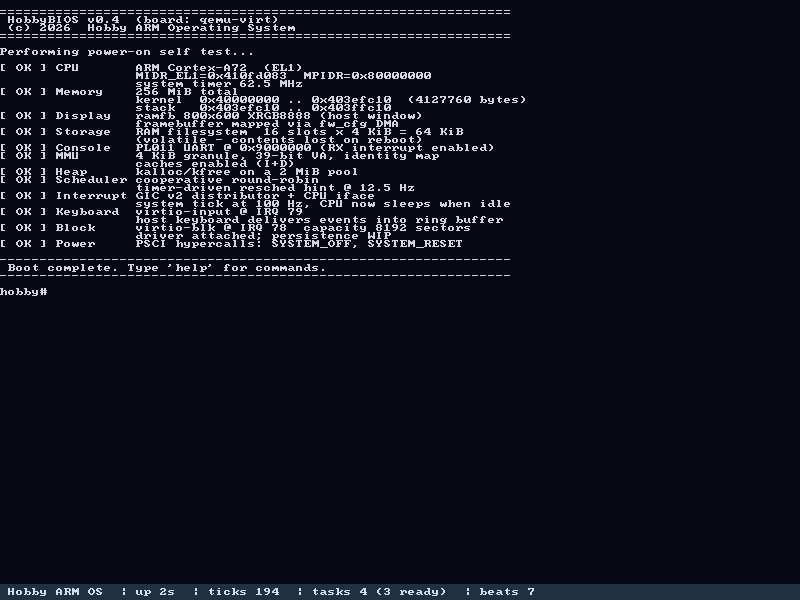
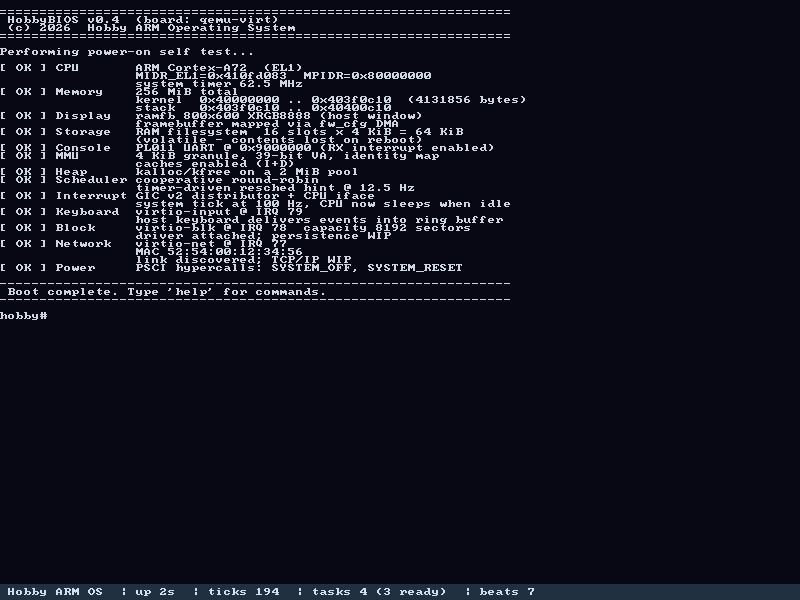
F: virtio-net device discovery + MAC
The kernel now finds the QEMU virtio-net device on the virtio-mmio
bus, walks the standard handshake with VIRTIO_NET_F_MAC negotiated,
and reads the MAC address from the config space. POST now lists the
network device and a new 'ifconfig' shell command prints the link
info.

QEMU command line ships with -netdev user + -device virtio-net-device
so the device shows up out of the box. Frame I/O and a TCP/IP stack
are scheduled for a follow-up; for now this is the link layer that a
real stack will sit on top of.

diff --git a/src/virtio_net.c b/src/virtio_net.c
@@ -1,0 +1,60 @@
+#include <stdint.h>
+#include "virtio.h"
+#include "virtio_net.h"
+#include "gic.h"
+
+#define VIRTIO_DEVICE_NET 1
+
+#define MMIO_DEVICE_FEATURES_SEL 0x014
+#define MMIO_DRIVER_FEATURES     0x020
+#define MMIO_DRIVER_FEATURES_SEL 0x024
+#define MMIO_QUEUE_SEL           0x030
+#define MMIO_QUEUE_NUM_MAX       0x034
+#define MMIO_QUEUE_NUM           0x038
+#define MMIO_QUEUE_READY         0x044
+#define MMIO_STATUS              0x070
+#define MMIO_CONFIG              0x100
+
+#define STATUS_ACKNOWLEDGE 0x01
+#define STATUS_DRIVER      0x02
+#define STATUS_DRIVER_OK   0x04
+#define STATUS_FEATURES_OK 0x08
+
+#define VIRTIO_NET_F_MAC (1u << 5)
+
+static struct virtio_mmio_dev dev;
+static int  initialized;
+static uint8_t mac_addr[6];
+
+int vnet_present(void)    { return initialized; }
+int vnet_irq_number(void) { return initialized ? (int)dev.irq : -1; }
+const uint8_t *vnet_mac(void) { return mac_addr; }
+
+int vnet_init(void) {
+    if (virtio_mmio_find(VIRTIO_DEVICE_NET, &dev) != 0) {
+        return -1;
+    }
+
+    vio_write32(&dev, MMIO_STATUS, 0);
+    vio_write32(&dev, MMIO_STATUS, STATUS_ACKNOWLEDGE);
+    vio_write32(&dev, MMIO_STATUS, STATUS_ACKNOWLEDGE | STATUS_DRIVER);
+
+    vio_write32(&dev, MMIO_DEVICE_FEATURES_SEL, 0);
+    vio_write32(&dev, MMIO_DRIVER_FEATURES_SEL, 0);
+    vio_write32(&dev, MMIO_DRIVER_FEATURES, VIRTIO_NET_F_MAC);
+    vio_write32(&dev, MMIO_DEVICE_FEATURES_SEL, 1);
+    vio_write32(&dev, MMIO_DRIVER_FEATURES_SEL, 1);
+    vio_write32(&dev, MMIO_DRIVER_FEATURES, 1); /* VIRTIO_F_VERSION_1 */
+
+    vio_write32(&dev, MMIO_STATUS,
+                STATUS_ACKNOWLEDGE | STATUS_DRIVER | STATUS_FEATURES_OK);
+    if (!(vio_read32(&dev, MMIO_STATUS) & STATUS_FEATURES_OK)) return -2;
+
+    /* MAC is the first 6 bytes of config space when VIRTIO_NET_F_MAC is set */
+    for (int i = 0; i < 6; i++) {
+        mac_addr[i] = *(volatile uint8_t *)(dev.base + MMIO_CONFIG + i);
+    }
+
+    initialized = 1;
+    return 0;
+}

diff --git a/src/shell.c b/src/shell.c
@@ -12,6 +12,7 @@
 #include "task.h"
 #include "heap.h"
 #include "user_program.h"
+#include "virtio_net.h"
 #endif
 
 #define LINE_MAX  256
@@ -48,6 +49,7 @@ static void cmd_ps(int argc, char **argv);
 static void cmd_run(int argc, char **argv);
 static void cmd_save(int argc, char **argv);
 static void cmd_load(int argc, char **argv);
+static void cmd_ifconfig(int argc, char **argv);
 #endif
 
 static const struct cmd cmds[] = {
@@ -68,6 +70,7 @@ static const struct cmd cmds[] = {
     {"run",     cmd_run,     "run a built-in user program (try 'run hello')"},
     {"save",    cmd_save,    "persist filesystem to virtio-blk disk"},
     {"load",    cmd_load,    "reload filesystem from virtio-blk disk"},
+    {"ifconfig",cmd_ifconfig,"show network interface info"},
 #endif
     {"halt",    cmd_halt,    "shut down the system"},
     {"reboot",  cmd_reboot,  "reboot the system"},
@@ -256,6 +259,19 @@ static void cmd_load(int argc, char **argv) {
     int r = fs_load();
     if (r == 0) console_puts("filesystem loaded\n");
     else console_printf("load failed (%d) -- disk has no fs yet?\n", r);
+}
+
+static void cmd_ifconfig(int argc, char **argv) {
+    (void)argc; (void)argv;
+    if (!vnet_present()) {
+        console_puts("ifconfig: no network device\n");
+        return;
+    }
+    const uint8_t *m = vnet_mac();
+    console_printf("eth0: virtio-net  IRQ %d\n", vnet_irq_number());
+    console_printf("      hwaddr %02x:%02x:%02x:%02x:%02x:%02x\n",
+                   m[0], m[1], m[2], m[3], m[4], m[5]);
+    console_puts("      ip     (no IP stack yet)\n");
 }
 
 static void cmd_run(int argc, char **argv) {

diff --git a/src/kernel.c b/src/kernel.c
@@ -11,6 +11,7 @@
 #include "timer.h"
 #include "virtio_input.h"
 #include "virtio_blk.h"
+#include "virtio_net.h"
 #include "mmu.h"
 #include "task.h"
 #endif
@@ -120,6 +121,17 @@ static void post(void) {
         console_puts("                 driver attached; persistence WIP\n");
     } else {
         console_puts("[ -- ] Block     no virtio-blk device attached\n");
+    }
+
+    delay_ms(150);
+    if (vnet_present()) {
+        const uint8_t *m = vnet_mac();
+        console_printf("[ OK ] Network   virtio-net @ IRQ %d\n", vnet_irq_number());
+        console_printf("                 MAC %02x:%02x:%02x:%02x:%02x:%02x\n",
+                       m[0], m[1], m[2], m[3], m[4], m[5]);
+        console_puts("                 link discovered; TCP/IP WIP\n");
+    } else {
+        console_puts("[ -- ] Network   no virtio-net device attached\n");
     }
 #else
     console_puts("[ -- ] Interrupt (no GIC driver on this board, polling UART)\n");
@@ -238,6 +250,7 @@ void kernel_main(void) {
     timer_init(100);
     vinput_init();
     vblk_init();
+    vnet_init();
 #endif
 
 #ifdef BOARD_HAS_RAMFB

diff --git a/src/virtio_net.h b/src/virtio_net.h
@@ -1,0 +1,11 @@
+#ifndef HOBBY_OS_VIRTIO_NET_H
+#define HOBBY_OS_VIRTIO_NET_H
+
+#include <stdint.h>
+
+int  vnet_init(void);
+int  vnet_present(void);
+int  vnet_irq_number(void);
+const uint8_t *vnet_mac(void);
+
+#endif
